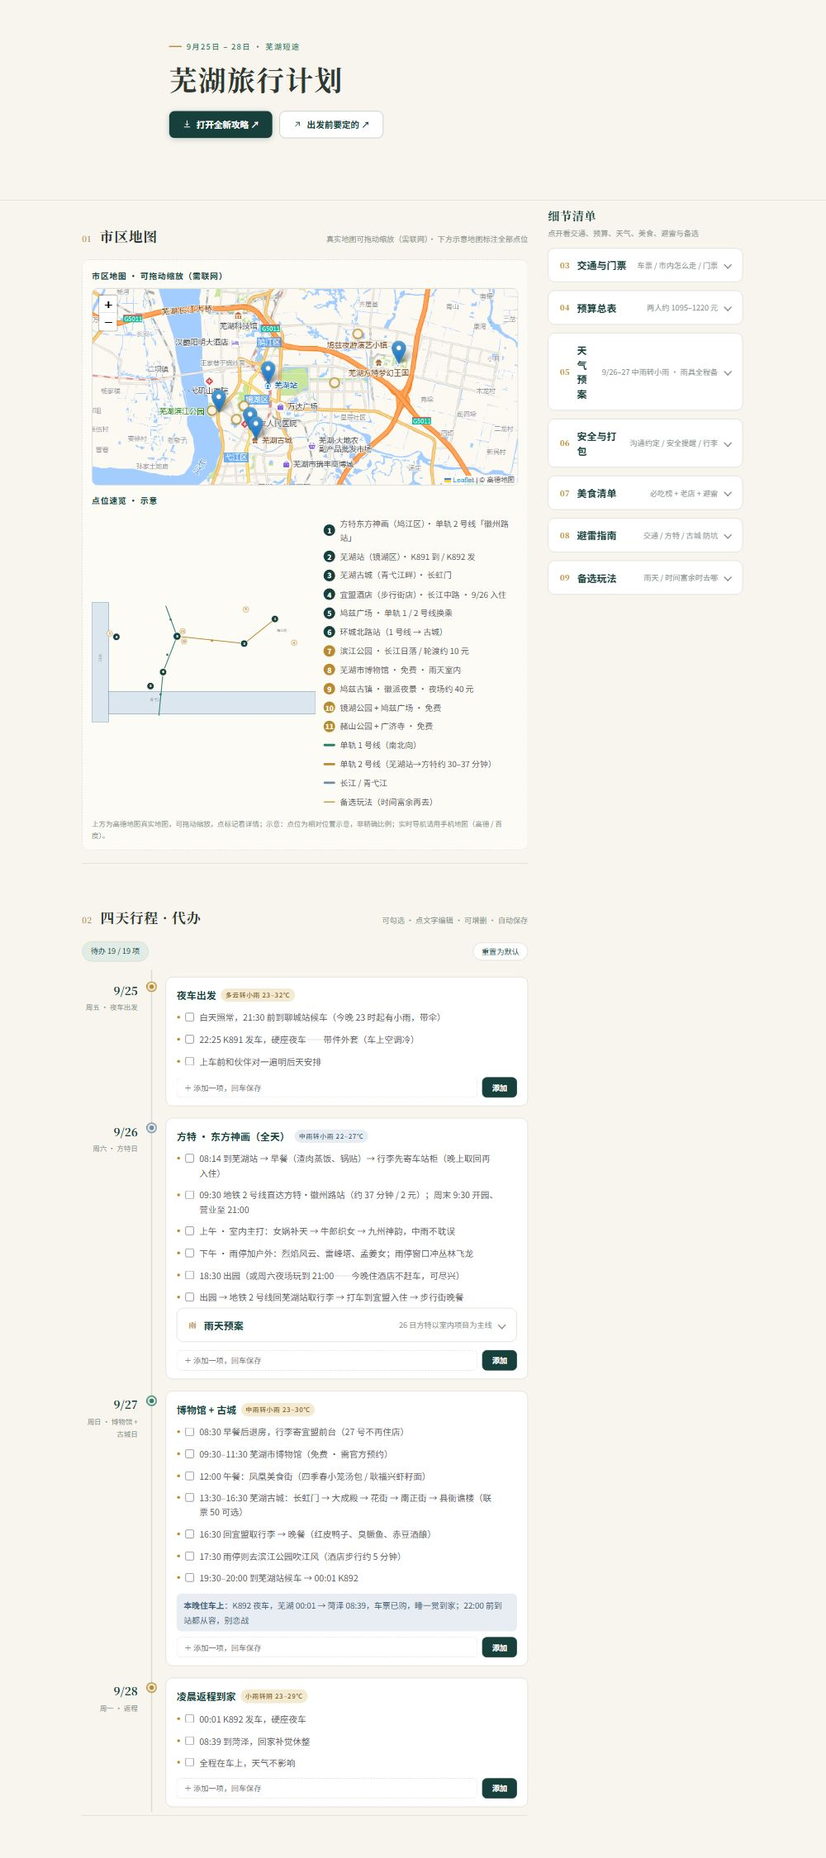
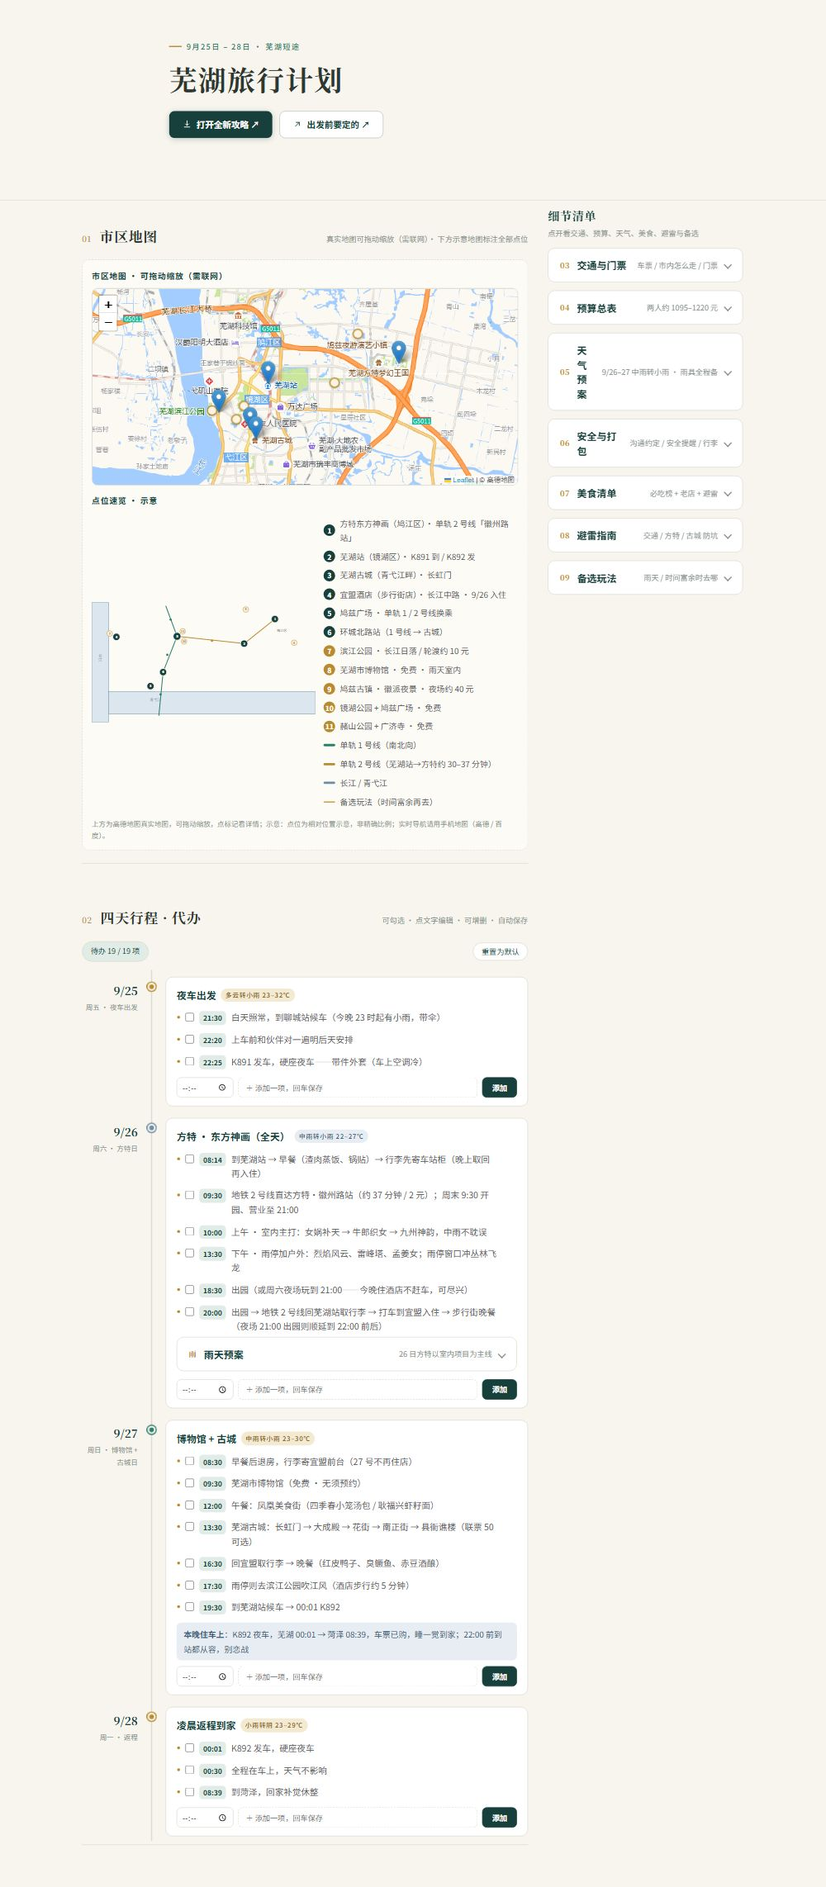
更新应用

diff --git a/芜湖旅行计划.html b/芜湖旅行计划.html
@@ -103,22 +103,28 @@
   .todo-reset{font-size:13px;color:var(--teal-dark);background:#fff;border:1.5px solid var(--line);padding:5px 14px;border-radius:999px;cursor:pointer;font-family:inherit;}
   .todo-reset:hover{border-color:var(--teal-dark);}
   .todo-list{list-style:none;margin:8px 0 2px;padding:0;display:flex;flex-direction:column;gap:5px;}
+  .tl-card{min-width:0;}
   .todo-item{display:flex;align-items:flex-start;gap:9px;padding:6px 8px;border:1px solid transparent;border-radius:8px;font-size:14px;line-height:1.65;color:var(--ink);}
   .todo-item:hover{background:#fff;border-color:var(--line);}
   .todo-item.done .todo-text{color:var(--ink-faint);text-decoration:line-through;}
   .todo-check{margin-top:4px;accent-color:var(--teal-dark);width:15px;height:15px;flex:none;cursor:pointer;}
+  .todo-time{flex:none;min-width:46px;text-align:center;font-size:12px;font-weight:700;color:var(--teal-dark);background:var(--teal-soft);border-radius:6px;padding:2px 6px;margin-top:1px;cursor:text;outline:none;}
+  .todo-time:focus{background:#FFFDF6;box-shadow:0 0 0 1.5px var(--gold);}
+  .todo-time.empty{color:var(--ink-faint);background:transparent;border:1px dashed var(--line);}
   .todo-text{flex:1;min-width:0;outline:none;cursor:text;word-break:break-word;}
   .todo-text:focus{background:#FFFDF6;box-shadow:0 0 0 1.5px var(--gold);border-radius:4px;}
   .todo-del{flex:none;width:22px;height:22px;border:none;background:none;color:var(--ink-faint);font-size:16px;line-height:1;cursor:pointer;border-radius:6px;opacity:0;transition:opacity .12s;font-family:inherit;}
   .todo-item:hover .todo-del{opacity:1;}
   .todo-del:hover{color:#B4543A;background:#F7E8E2;}
-  .todo-add{display:flex;gap:8px;margin-top:10px;}
-  .todo-add input{flex:1;min-width:0;font-size:13px;padding:7px 12px;border:1.5px dashed var(--line);border-radius:8px;background:#fff;color:var(--ink);font-family:inherit;}
+  .todo-add{display:flex;gap:8px;margin-top:10px;flex-wrap:wrap;}
+  .todo-add input[type="time"]{flex:none;width:98px;font-size:13px;padding:6px 8px;border:1.5px solid var(--line);border-radius:8px;background:#fff;color:var(--ink);font-family:inherit;}
+  .todo-add input[type="text"]{flex:1;min-width:0;font-size:13px;padding:7px 12px;border:1.5px dashed var(--line);border-radius:8px;background:#fff;color:var(--ink);font-family:inherit;}
   .todo-add input:focus{border-color:var(--teal-dark);outline:none;}
   .todo-add button{flex:none;font-size:13px;padding:7px 16px;border-radius:8px;border:1.5px solid var(--teal-dark);background:var(--teal-dark);color:#fff;cursor:pointer;font-weight:700;font-family:inherit;}
   .todo-add button:hover{background:var(--teal-deep);}
   @media (max-width:720px){
     .todo-bar{justify-content:flex-start;}
+    .todo-add input[type="time"]{width:88px;}
   }
   @media (max-width:720px){
     .tip-grid{grid-template-columns:1fr;}
@@ -429,6 +435,7 @@
         <h4>夜车出发 <span class="tag warn">多云转小雨 23–32℃</span></h4>
         <ul class="todo-list"></ul>
         <div class="todo-add">
+          <input type="time" class="todo-add-time" title="时间（可留空）">
           <input type="text" class="todo-add-input" placeholder="＋ 添加一项，回车保存">
           <button type="button" class="todo-add-btn">添加</button>
         </div>
@@ -451,6 +458,7 @@
           </div>
         </div>
         <div class="todo-add">
+          <input type="time" class="todo-add-time" title="时间（可留空）">
           <input type="text" class="todo-add-input" placeholder="＋ 添加一项，回车保存">
           <button type="button" class="todo-add-btn">添加</button>
         </div>
@@ -463,6 +471,7 @@
         <ul class="todo-list"></ul>
         <div class="alt-note"><b>本晚住车上</b>：K892 夜车，芜湖 00:01 → 菏泽 08:39，车票已购，睡一觉到家；22:00 前到站都从容，别恋战</div>
         <div class="todo-add">
+          <input type="time" class="todo-add-time" title="时间（可留空）">
           <input type="text" class="todo-add-input" placeholder="＋ 添加一项，回车保存">
           <button type="button" class="todo-add-btn">添加</button>
         </div>
@@ -474,6 +483,7 @@
         <h4>凌晨返程到家 <span class="tag warn">小雨转阴 23–29℃</span></h4>
         <ul class="todo-list"></ul>
         <div class="todo-add">
+          <input type="time" class="todo-add-time" title="时间（可留空）">
           <input type="text" class="todo-add-input" placeholder="＋ 添加一项，回车保存">
           <button type="button" class="todo-add-btn">添加</button>
         </div>
@@ -676,7 +686,7 @@
         <thead><tr><th>备选</th><th>怎么玩</th><th>适合</th></tr></thead>
         <tbody>
           <tr><td><b>滨江公园</b>（免费）</td><td>长江日落（约 17–18 点）、中江塔 + 老海关钟楼出片；轮渡约 10 元</td><td>已并入 26 日傍晚：宜盟酒店步行约 5 分钟，若雨停就去</td></tr>
-          <tr><td><b>芜湖市博物馆</b>（免费）</td><td>三层看芜湖通商史、人字洞文物；需官方预约，别买黄牛"内部票"</td><td>已并入 26 日上午主线（雨天室内）</td></tr>
+          <tr><td><b>芜湖市博物馆</b>（免费）</td><td>三层看芜湖通商史、人字洞文物；无须预约，别买黄牛"内部票"</td><td>已并入 27 日上午主线（雨天室内）</td></tr>
           <tr><td><b>鸠兹古镇</b></td><td>徽派水乡夜景 + 演出；白天约 80 元，夜场约 40 元更划算</td><td>本次时间紧（26 日满、27 日赶车），大概率去不了，可留待下次</td></tr>
           <tr><td><b>镜湖公园 + 鸠兹广场</b>（免费）</td><td>鸠兹雕塑地标，镜湖游船约 30 元 / 人</td><td>市中心碎片时间，顺路买杯卡旺卡</td></tr>
           <tr><td><b>赭山公园 + 广济寺</b>（免费）</td><td>登赭山看城景；广济寺周边"算命大妈"是套路，别信</td><td>上午散步备选</td></tr>
@@ -711,7 +721,7 @@
     <thead><tr><th>对比项</th><th>9/26（周六）· 已定方特</th><th>9/27（周日）· 已定博物馆+古城</th></tr></thead>
     <tbody>
       <tr><td>天气</td><td>中雨转小雨 22–27℃</td><td>中雨转小雨 23–30℃</td></tr>
-      <tr><td>开园</td><td>9:30 开园，日场至 17:30（实查）</td><td>市博物馆 09:30 开放（免费预约）</td></tr>
+      <tr><td>开园</td><td>9:30 开园，日场至 17:30（实查）</td><td>市博物馆 09:30 开放（免费 · 无须预约）</td></tr>
       <tr><td>夜场</td><td>周末常加开夜场至 21:00；当晚住酒店不赶车，可玩满</td><td>不涉及；20:00 前到站赶 00:01 夜车</td></tr>
       <tr><td>户外项目</td><td>中雨大概率不开（丛林飞龙等），雨停窗口可冲</td><td>古城廊檐 + 展馆，雨天友好</td></tr>
       <tr><td>当晚落脚</td><td>宜盟酒店（步行街店）</td><td>K892 夜车（00:01 发）</td></tr>
@@ -729,7 +739,7 @@
     <tbody>
       <tr><td>9/25 周五</td><td>聊城—芜湖（夜车）</td><td>22:25 K891 发车</td><td>车上</td><td>已购票</td></tr>
       <tr><td>9/26 周六</td><td>方特（城东）</td><td>方特东方神画全天 → 回芜湖站取行李 → 入住宜盟</td><td>宜盟酒店</td><td>方特门票提前网购；夜场以公告为准</td></tr>
-      <tr><td>9/27 周日</td><td>芜湖东（博物馆）→ 城西（古城/步行街）</td><td>市博物馆（免费）→ 凤凰美食街午餐 → 芜湖古城 → 取行李 → 芜湖站</td><td>车上</td><td>博物馆需官方预约；联票 50 可选</td></tr>
+      <tr><td>9/27 周日</td><td>芜湖东（博物馆）→ 城西（古城/步行街）</td><td>市博物馆（免费）→ 凤凰美食街午餐 → 芜湖古城 → 取行李 → 芜湖站</td><td>车上</td><td>博物馆免费无须预约；联票 50 可选</td></tr>
       <tr><td>9/28 周一</td><td>返程</td><td>00:01 K892 → 08:39 到菏泽</td><td>—</td><td>已购票</td></tr>
     </tbody>
   </table>
@@ -759,7 +769,7 @@
     <thead><tr><th>时间</th><th>安排</th><th>交通 / 步行</th><th>费用 / 预约</th></tr></thead>
     <tbody>
       <tr><td>08:30</td><td>早餐后退房，行李寄宜盟前台（27 号不再住店，晚上取走去车站）</td><td>—</td><td>—</td></tr>
-      <tr><td>09:30–11:30</td><td>芜湖市博物馆：三层通商史 + 人字洞文物，免费室内</td><td>宜盟打车约 10 分钟</td><td>免费；需官方预约（微信搜「芜湖市博物馆」）</td></tr>
+      <tr><td>09:30–11:30</td><td>芜湖市博物馆：三层通商史 + 人字洞文物，免费室内</td><td>宜盟打车约 10 分钟</td><td>免费 · 无须预约</td></tr>
       <tr><td>12:00</td><td>凤凰美食街午餐：耿福兴虾籽面 / 四季春小笼汤包</td><td>博物馆打车约 15 分钟</td><td>人均 15–30 元（参考）</td></tr>
       <tr><td>13:30–16:30</td><td>芜湖古城：长虹门（南门）进 → 大成殿 → 花街 → 南正街 → 县衙谯楼（联票 50 可选）</td><td>美食街步行约 15 分钟</td><td>古城免费；联票可选</td></tr>
       <tr><td>16:30</td><td>回宜盟取行李 → 晚餐（红皮鸭子、臭鳜鱼、赤豆酒酿）</td><td>古城步行约 15 分钟</td><td>晚餐两人约 80–120 元（估算）</td></tr>
@@ -781,7 +791,7 @@
     <tbody>
       <tr><td>芜湖站 → 方特（26 日）</td><td>地铁 2 号线直达</td><td>约 37 分钟</td><td>2 元/人</td><td>行李先存车站，轻装玩</td></tr>
       <tr><td>方特 → 芜湖站 → 宜盟（26 日晚）</td><td>地铁 2 号线 + 打车</td><td>约 40+15 分钟</td><td>2 元/人 + 15–20 元</td><td>夜场玩满 21:00 出园，22:30 前到店</td></tr>
-      <tr><td>宜盟 → 博物馆 → 美食街（27 日）</td><td>打车</td><td>各约 10–15 分钟</td><td>约 10–20 元/段</td><td>博物馆需预约</td></tr>
+      <tr><td>宜盟 → 博物馆 → 美食街（27 日）</td><td>打车</td><td>各约 10–15 分钟</td><td>约 10–20 元/段</td><td>博物馆无须预约</td></tr>
       <tr><td>美食街 → 古城 → 宜盟</td><td>步行</td><td>各约 15 分钟</td><td>免费</td><td>青石板雨天防滑</td></tr>
       <tr><td>宜盟 → 芜湖站（27 日晚）</td><td>打车 / 地铁</td><td>约 20 分钟</td><td>15–20 元 / 2 元/人</td><td>赶 00:01 夜车，20:00 前到站更稳</td></tr>
     </tbody>
@@ -825,7 +835,7 @@
   <h2 class="serif">出发前复查清单</h2>
   <div class="chk">
     <label><input type="checkbox"> 方特门票：提前 1–2 天线上买（方特旅游 App / 直播间 239 / OTA 280），下单前确认 9/26（周六）可入园、退改规则</label>
-    <label><input type="checkbox"> 芜湖市博物馆：微信搜索官方公众号「芜湖市博物馆」预约 9/27（周日）免费票，截图预约码</label>
+    <label><input type="checkbox"> 芜湖市博物馆：免费 · 无须预约，9/27（周日）直接凭身份证进馆</label>
     <label><input type="checkbox"> 9/26 方特夜场：当天在方特 App / 官方公告确认是否开夜场，决定 18:30 撤还是玩到 21:00（当晚住酒店不赶车）</label>
     <label><input type="checkbox"> 天气：出发前 48 小时核对 9/26–27 芜湖天气预报，按中雨/小雨带好雨具</label>
     <label><input type="checkbox"> 车票与证件：K891 / K892 订单、身份证、充电宝、外套（夜车空调冷）</label>
@@ -870,7 +880,7 @@
   <h2 class="serif">出发前复查</h2>
   <div class="chk">
     <label><input type="checkbox"> 方特门票提前 1–2 天网购，确认 9/26 可入园</label>
-    <label><input type="checkbox"> 市博物馆官方公众号预约 9/27 免费票</label>
+    <label><input type="checkbox"> 市博物馆免费 · 无须预约，27 日直接进</label>
     <label><input type="checkbox"> 9/26 当天确认方特夜场是否开放</label>
     <label><input type="checkbox"> 48 小时前核对芜湖天气，带好雨具</label>
   </div>
@@ -921,70 +931,110 @@
 (function(){
   var KEY='wuhu_todo_v1';
   var DAYS=['d1','d2','d3','d4'];
+  var idSeq=1000;
+  function item(t,time,done,id){return {t:t,time:time||'',done:!!done,id:id||(idSeq++)};}
   var DEFAULT={
     d1:[
-      {t:'白天照常，21:30 前到聊城站候车（今晚 23 时起有小雨，带伞）',done:false},
-      {t:'22:25 K891 发车，硬座夜车——带件外套（车上空调冷）',done:false},
-      {t:'上车前和伙伴对一遍明后天安排',done:false}
+      item('白天照常，到聊城站候车（今晚 23 时起有小雨，带伞）','21:30'),
+      item('上车前和伙伴对一遍明后天安排','22:20'),
+      item('K891 发车，硬座夜车——带件外套（车上空调冷）','22:25')
     ],
     d2:[
-      {t:'08:14 到芜湖站 → 早餐（渣肉蒸饭、锅贴）→ 行李先寄车站柜（晚上取回再入住）',done:false},
-      {t:'09:30 地铁 2 号线直达方特·徽州路站（约 37 分钟 / 2 元）；周末 9:30 开园、营业至 21:00',done:false},
-      {t:'上午 · 室内主打：女娲补天 → 牛郎织女 → 九州神韵，中雨不耽误',done:false},
-      {t:'下午 · 雨停加户外：烈焰风云、雷峰塔、孟姜女；雨停窗口冲丛林飞龙',done:false},
-      {t:'18:30 出园（或周六夜场玩到 21:00——今晚住酒店不赶车，可尽兴）',done:false},
-      {t:'出园 → 地铁 2 号线回芜湖站取行李 → 打车到宜盟入住 → 步行街晚餐',done:false}
+      item('到芜湖站 → 早餐（渣肉蒸饭、锅贴）→ 行李先寄车站柜（晚上取回再入住）','08:14'),
+      item('地铁 2 号线直达方特·徽州路站（约 37 分钟 / 2 元）；周末 9:30 开园、营业至 21:00','09:30'),
+      item('上午 · 室内主打：女娲补天 → 牛郎织女 → 九州神韵，中雨不耽误','10:00'),
+      item('下午 · 雨停加户外：烈焰风云、雷峰塔、孟姜女；雨停窗口冲丛林飞龙','13:30'),
+      item('出园（或周六夜场玩到 21:00——今晚住酒店不赶车，可尽兴）','18:30'),
+      item('出园 → 地铁 2 号线回芜湖站取行李 → 打车到宜盟入住 → 步行街晚餐（夜场 21:00 出园则顺延到 22:00 前后）','20:00')
     ],
     d3:[
-      {t:'08:30 早餐后退房，行李寄宜盟前台（27 号不再住店）',done:false},
-      {t:'09:30–11:30 芜湖市博物馆（免费 · 需官方预约）',done:false},
-      {t:'12:00 午餐：凤凰美食街（四季春小笼汤包 / 耿福兴虾籽面）',done:false},
-      {t:'13:30–16:30 芜湖古城：长虹门 → 大成殿 → 花街 → 南正街 → 县衙谯楼（联票 50 可选）',done:false},
-      {t:'16:30 回宜盟取行李 → 晚餐（红皮鸭子、臭鳜鱼、赤豆酒酿）',done:false},
-      {t:'17:30 雨停则去滨江公园吹江风（酒店步行约 5 分钟）',done:false},
-      {t:'19:30–20:00 到芜湖站候车 → 00:01 K892',done:false}
+      item('早餐后退房，行李寄宜盟前台（27 号不再住店）','08:30'),
+      item('芜湖市博物馆（免费 · 无须预约）','09:30'),
+      item('午餐：凤凰美食街（四季春小笼汤包 / 耿福兴虾籽面）','12:00'),
+      item('芜湖古城：长虹门 → 大成殿 → 花街 → 南正街 → 县衙谯楼（联票 50 可选）','13:30'),
+      item('回宜盟取行李 → 晚餐（红皮鸭子、臭鳜鱼、赤豆酒酿）','16:30'),
+      item('雨停则去滨江公园吹江风（酒店步行约 5 分钟）','17:30'),
+      item('到芜湖站候车 → 00:01 K892','19:30')
     ],
     d4:[
-      {t:'00:01 K892 发车，硬座夜车',done:false},
-      {t:'08:39 到菏泽，回家补觉休整',done:false},
-      {t:'全程在车上，天气不影响',done:false}
+      item('K892 发车，硬座夜车','00:01'),
+      item('到菏泽，回家补觉休整','08:39'),
+      item('全程在车上，天气不影响','00:30')
     ]
   };
+  function normalize(list){
+    return list.map(function(it){
+      if(!it.id){it.id=idSeq++;}
+      if(it.time===undefined){it.time='';}
+      return it;
+    });
+  }
   function load(){
     try{
       var raw=localStorage.getItem(KEY);
       if(raw){
         var d=JSON.parse(raw);
-        if(d&&DAYS.every(function(k){return Array.isArray(d[k]);})){
-          return d;
+        if(d&&d.v>=2&&d.days&&DAYS.every(function(k){return Array.isArray(d.days[k]);})){
+          DAYS.forEach(function(k){d.days[k]=normalize(d.days[k]);});
+          return d.days;
         }
       }
     }catch(e){}
     return JSON.parse(JSON.stringify(DEFAULT));
   }
   var state=load();
-  function save(){try{localStorage.setItem(KEY,JSON.stringify(state));}catch(e){}}
+  function save(){try{localStorage.setItem(KEY,JSON.stringify({v:2,days:state}));}catch(e){}}
+  function sortDay(list){
+    return list.slice().sort(function(a,b){
+      var ta=a.time||'99:99',tb=b.time||'99:99';
+      if(ta===tb)return 0;
+      return ta<tb?-1:1;
+    });
+  }
+  function fmtTime(t){
+    if(!t)return '';
+    var m=/^(\d{1,2}):(\d{2})$/.exec(t.trim());
+    if(!m)return '';
+    return (('0'+m[1]).slice(-2))+':'+m[2];
+  }
   function render(){
     DAYS.forEach(function(day){
-      var ul=document.querySelector('.tl-card[data-day="'+day+'"] .todo-list');
+      var card=document.querySelector('.tl-card[data-day="'+day+'"]');
+      var ul=card?card.querySelector('.todo-list'):null;
       if(!ul)return;
       ul.innerHTML='';
-      state[day].forEach(function(item,idx){
+      sortDay(state[day]).forEach(function(item){
         var li=document.createElement('li');
         li.className='todo-item'+(item.done?' done':'');
-        li.dataset.idx=idx;
+        li.dataset.id=item.id;
         var cb=document.createElement('input');
         cb.type='checkbox';cb.className='todo-check';cb.checked=item.done;
+        var tm=document.createElement('span');
+        tm.className='todo-time'+(item.time?'':' empty');
+        tm.textContent=item.time||'--';
+        tm.contentEditable='plaintext-only';
+        tm.title='点我改时间';
         var tx=document.createElement('span');
         tx.className='todo-text';tx.textContent=item.t;tx.contentEditable='plaintext-only';
         var del=document.createElement('button');
         del.type='button';del.className='todo-del';del.textContent='×';
         del.title='删除该项';
-        li.appendChild(cb);li.appendChild(tx);li.appendChild(del);
+        li.appendChild(cb);li.appendChild(tm);li.appendChild(tx);li.appendChild(del);
         ul.appendChild(li);
       });
     });
     updateProgress();
+  }
+  function findItem(li){
+    var card=li.closest('.tl-card');
+    if(!card)return null;
+    var day=card.getAttribute('data-day');
+    var id=+li.dataset.id;
+    var arr=state[day];
+    for(var i=0;i<arr.length;i++){
+      if(arr[i].id===id){return {day:day,item:arr[i],idx:i};}
+    }
+    return null;
   }
   function updateProgress(){
     var total=0,done=0;
@@ -995,10 +1045,13 @@
     var el=document.getElementById('todoProgress');
     if(el)el.textContent='待办 '+(total-done)+' / '+total+' 项';
   }
-  function addItem(day,input){
-    if(!input||!input.value.trim())return;
-    state[day].push({t:input.value.trim(),done:false});
-    input.value='';
+  function addItem(day,timeInput,textInput){
+    var val=textInput?textInput.value.trim():'';
+    if(!val)return;
+    var tv=fmtTime(timeInput?timeInput.value:'');
+    state[day].push(item(val,tv));
+    if(textInput)textInput.value='';
+    if(timeInput)timeInput.value='';
     save();render();
   }
   function bind(){
@@ -1008,43 +1061,50 @@
       var target=e.target;
       if(target.classList.contains('todo-check')){
         var li=target.closest('.todo-item');if(!li)return;
-        var day=li.closest('[data-day]').getAttribute('data-day');
-        state[day][+li.dataset.idx].done=target.checked;
+        var f=findItem(li);if(!f)return;
+        f.item.done=target.checked;
         li.classList.toggle('done',target.checked);
         save();updateProgress();
       }else if(target.classList.contains('todo-del')){
         var li2=target.closest('.todo-item');if(!li2)return;
-        var day2=li2.closest('[data-day]').getAttribute('data-day');
-        state[day2].splice(+li2.dataset.idx,1);
+        var f2=findItem(li2);if(!f2)return;
+        state[f2.day].splice(f2.idx,1);
         save();render();
       }else if(target.classList.contains('todo-add-btn')){
         var box=target.closest('.todo-add');
-        var day3=box.closest('[data-day]').getAttribute('data-day');
-        addItem(day3,box.querySelector('input'));
+        addItem(box.closest('.tl-card').getAttribute('data-day'),box.querySelector('.todo-add-time'),box.querySelector('.todo-add-input'));
       }
     });
     tl.addEventListener('keydown',function(e){
       if(e.key==='Enter'&&e.target.classList.contains('todo-add-input')){
         e.preventDefault();
         var box=e.target.closest('.todo-add');
-        addItem(box.closest('[data-day]').getAttribute('data-day'),e.target);
-      }else if(e.key==='Enter'&&e.target.classList.contains('todo-text')){
+        addItem(box.closest('.tl-card').getAttribute('data-day'),box.querySelector('.todo-add-time'),e.target);
+      }else if(e.key==='Enter'&&(e.target.classList.contains('todo-text')||e.target.classList.contains('todo-time'))){
         e.preventDefault();e.target.blur();
       }
     });
     tl.addEventListener('blur',function(e){
-      if(e.target.classList.contains('todo-text')){
-        var li=e.target.closest('.todo-item');if(!li)return;
-        var day=li.closest('[data-day]').getAttribute('data-day');
-        var txt=e.target.textContent.trim();
+      var t=e.target;
+      if(t.classList.contains('todo-text')){
+        var li=t.closest('.todo-item');if(!li)return;
+        var f=findItem(li);if(!f)return;
+        var txt=t.textContent.trim();
         if(txt){
-          state[day][+li.dataset.idx].t=txt;
-          e.target.textContent=txt;
+          f.item.t=txt;t.textContent=txt;
         }else{
-          state[day].splice(+li.dataset.idx,1);
+          state[f.day].splice(f.idx,1);
           save();render();return;
         }
         save();
+      }else if(t.classList.contains('todo-time')){
+        var li2=t.closest('.todo-item');if(!li2)return;
+        var f2=findItem(li2);if(!f2)return;
+        var val=t.textContent.trim();
+        if(val===''||val==='--'){f2.item.time='';}
+        else if(/^(\d{1,2}):(\d{2})$/.test(val)){f2.item.time=fmtTime(val);}
+        else{t.textContent=f2.item.time||'--';return;}
+        save();render();
       }
     },true);
     var reset=document.getElementById('todoReset');
@@ -1079,7 +1139,7 @@
   ];
   var altPts=[
     {c:[31.334750,118.358290],t:'滨江公园（备选）',d:'免费 · 长江日落约17–18点 · 中江塔+老海关钟楼出片 · 轮渡约10元傍晚顺路看江'},
-    {c:[31.348992,118.430859],t:'芜湖市博物馆（备选）',d:'免费 · 三层看通商史/人字洞文物 · 需官方预约 · 雨天室内备选'},
+    {c:[31.348992,118.430859],t:'芜湖市博物馆（备选）',d:'免费 · 三层看通商史/人字洞文物 · 无须预约 · 雨天室内备选'},
     {c:[31.373479,118.444633],t:'鸠兹古镇（备选）',d:'徽派水乡夜景+演出 · 夜场约40元更划算 · 内部餐饮溢价'},
     {c:[31.330333,118.372945],t:'镜湖公园 · 鸠兹广场（备选）',d:'免费 · 鸠兹雕塑地标 · 游船约30元/人 · 市中心碎片时间顺路买卡旺卡'},
     {c:[31.337321,118.377230],t:'赭山公园 · 广济寺（备选）',d:'免费 · 登赭山看城景 · 广济寺周边算命大妈是套路'}
